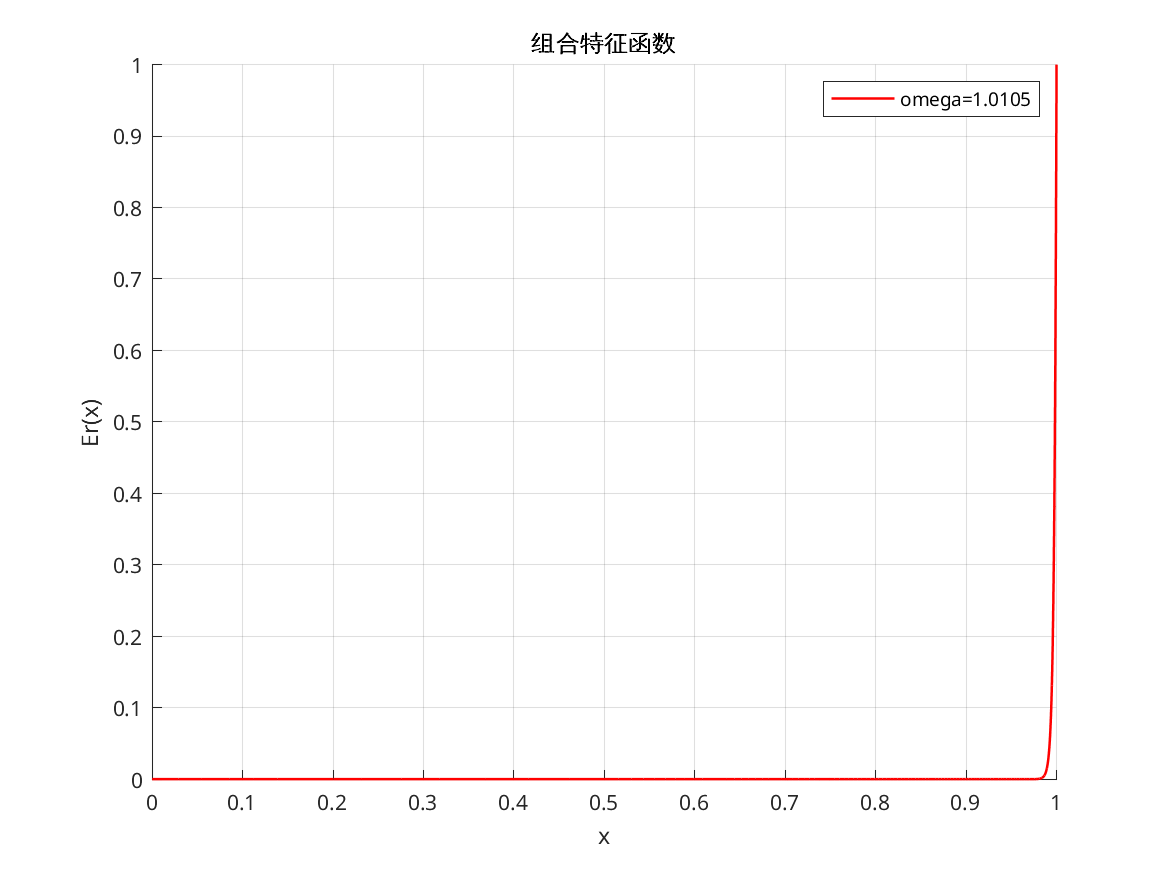
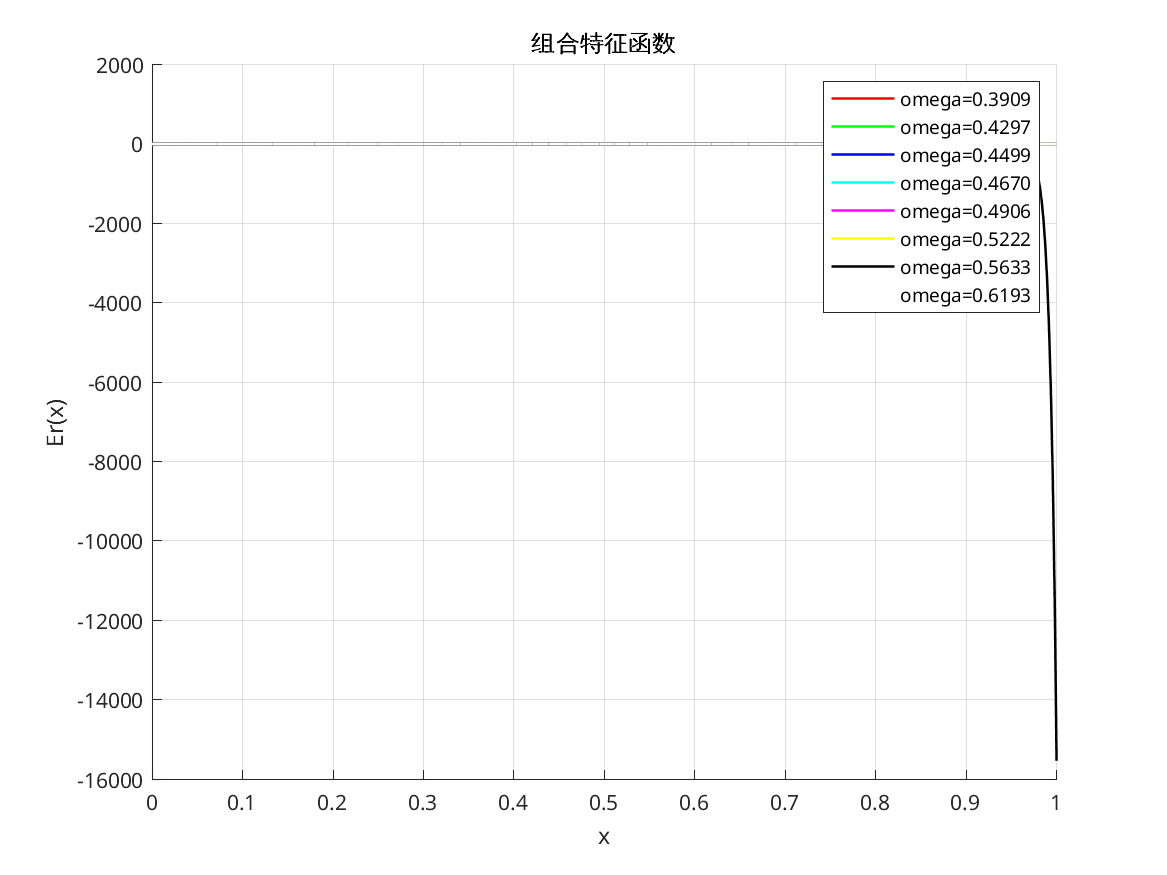
双向查找易漏根，Er边界值未收敛，特征值位置正确

diff --git a/matlab-solve/ceshi/shoot1.m b/matlab-solve/ceshi/shoot1.m
@@ -1,7 +1,7 @@
 function tt = shootev()
     format long;
     tol = 1.5e-4;
-    m = 1;
+    m = 8;
     omg_log = zeros(1, m);
 
     % 静默配置ODE求解器选项
@@ -12,12 +12,12 @@ function tt = shootev()
         mkdir('plots');
     end
 
-    omega_initial = 1.0; % k的初始值
-    deri = 1;
+    omega_initial = 0.36; % k的初始值
+    deri = 0.01;
 
     for n = 1:m  % 计算前m个特征值
         omega = omega_initial;
-        domg = omega / 100;
+        domg = omega / 30;
         % domg = 0.01;
         omega = omega + domg;
 
